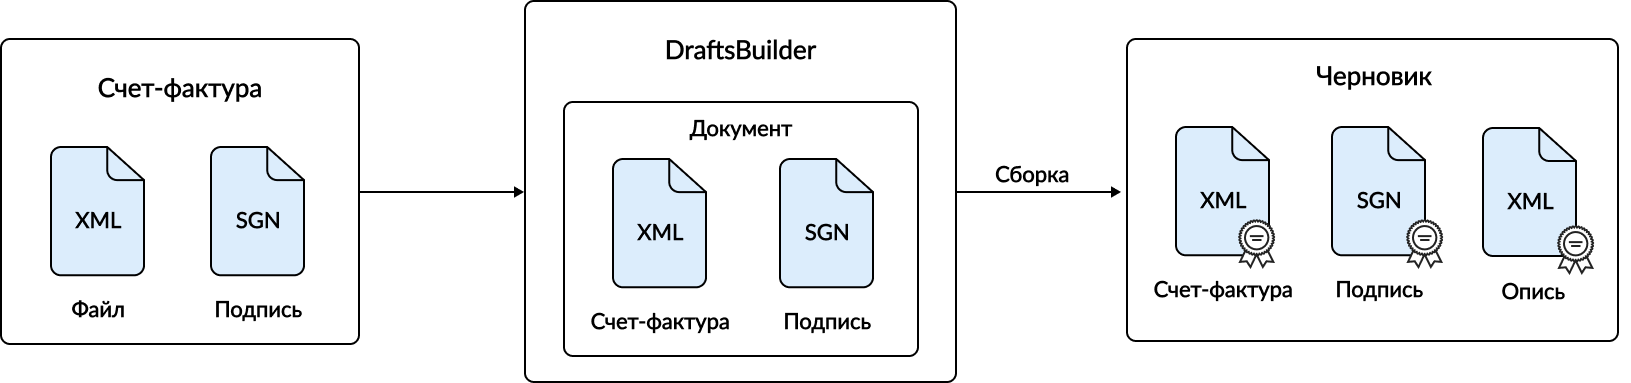
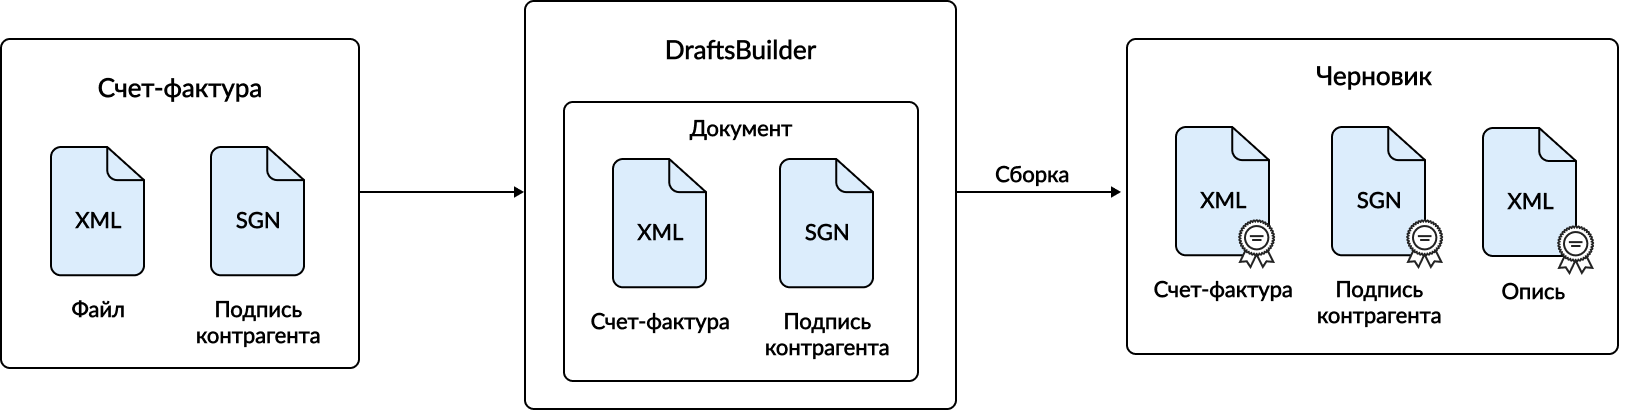
add pravki DB

diff --git a/docs/knowledge base/DraftsBuilder.rst b/docs/knowledge base/DraftsBuilder.rst
@@ -112,22 +112,19 @@ DraftsBuilder состоит из трех сущностей:
 Работа с подписями
 ~~~~~~~~~~~~~~~~~~
 
-Существует два вида подписей:
+При работе с документооборотами часто нужно прикладывать формализованные или неформализованные файлы. Вместе с формализованными файлами, помимо нескольких форм КНД, нужно прикладывать файл подписи контрагента. Если подписи контрагента нет, то необходимо приложить файл подписи отправителя. Формализованный файл и файл подписи подписываются КЭП отправителя описи. 
 
-1. Подпись контрагента.
-2. Подпись отправителя.
-
-Работа с подписью контрагента и подписью отправителя зависит от того, какой документ прикладываете в черновик.
+К неформализованным файлам файл подписи прикладывать не надо. Достаточно, подписать неформализованный файл перед отправкой.
 
 **Когда нужно прикладывать файл подпси**
 
-Файл подписи нужно прикладывать для многих формализованных файлов. Например, для некоторых документооборотов нужно прикладывать счета-фактуры и накладные. Счет-фактура состоит из **xml**-файла и **sgn**-файла подписи контрагента. При работе с DraftsBuilder необходимо прикладывать оба файла. 
+Файл подписи нужно прикладывать для многих формализованных файлов. Например, для некоторых документооборотов нужно прикладывать счета-фактуры и накладные. Счет-фактура состоит из xml-файла и sgn-файла **подписи контрагента**. При работе с DraftsBuilder необходимо прикладывать оба файла. 
 
 
  .. image:: /_static/DB_sf.png
      :width: 1000px
 
-Некоторые документообороты, как *Ответ на требование о предоставлении пояснений к налоговой декларации по налогу на добавленную стоимость (КНД 1160200)*, включают в себя только **xml**-файлы. Для таких файлов необходимо прикладывать также файл подписи отправителя в формате **sgn**.
+Некоторые документообороты, как *Ответ на требование о предоставлении пояснений к налоговой декларации по налогу на добавленную стоимость (КНД 1160200)*, включают в себя только xml-файлы. Для таких файлов необходимо прикладывать также файл **подписи отправителя** в формате sgn.
 
  .. image:: /_static/DB_treb.png
      :width: 1000px
